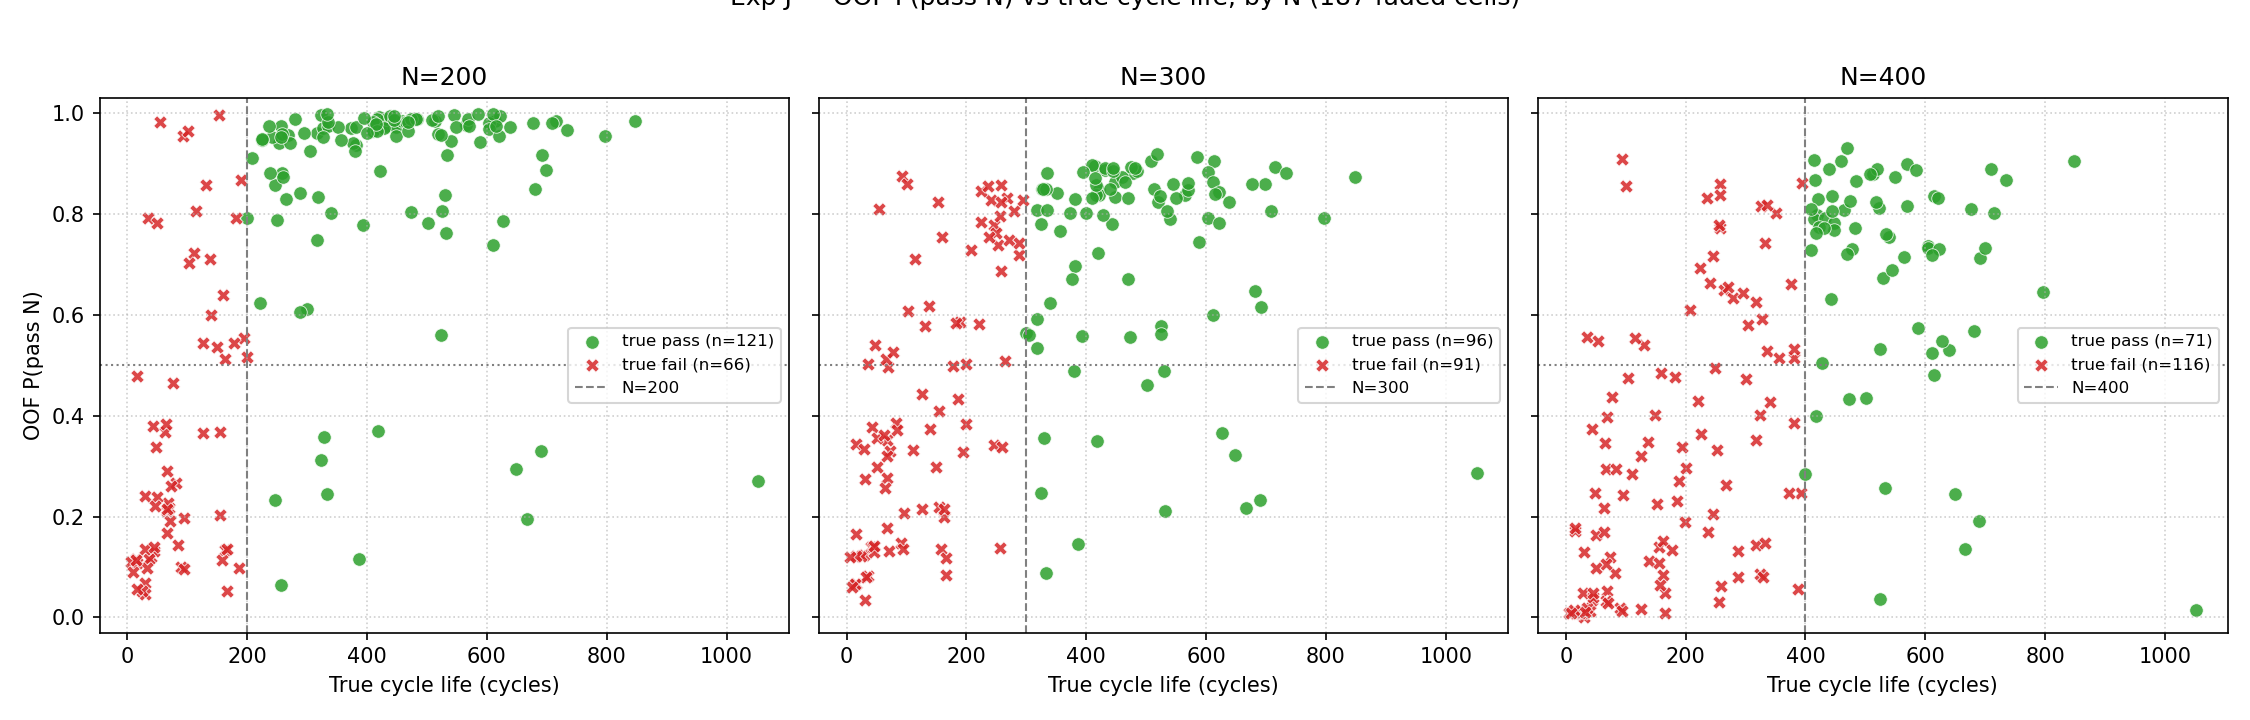
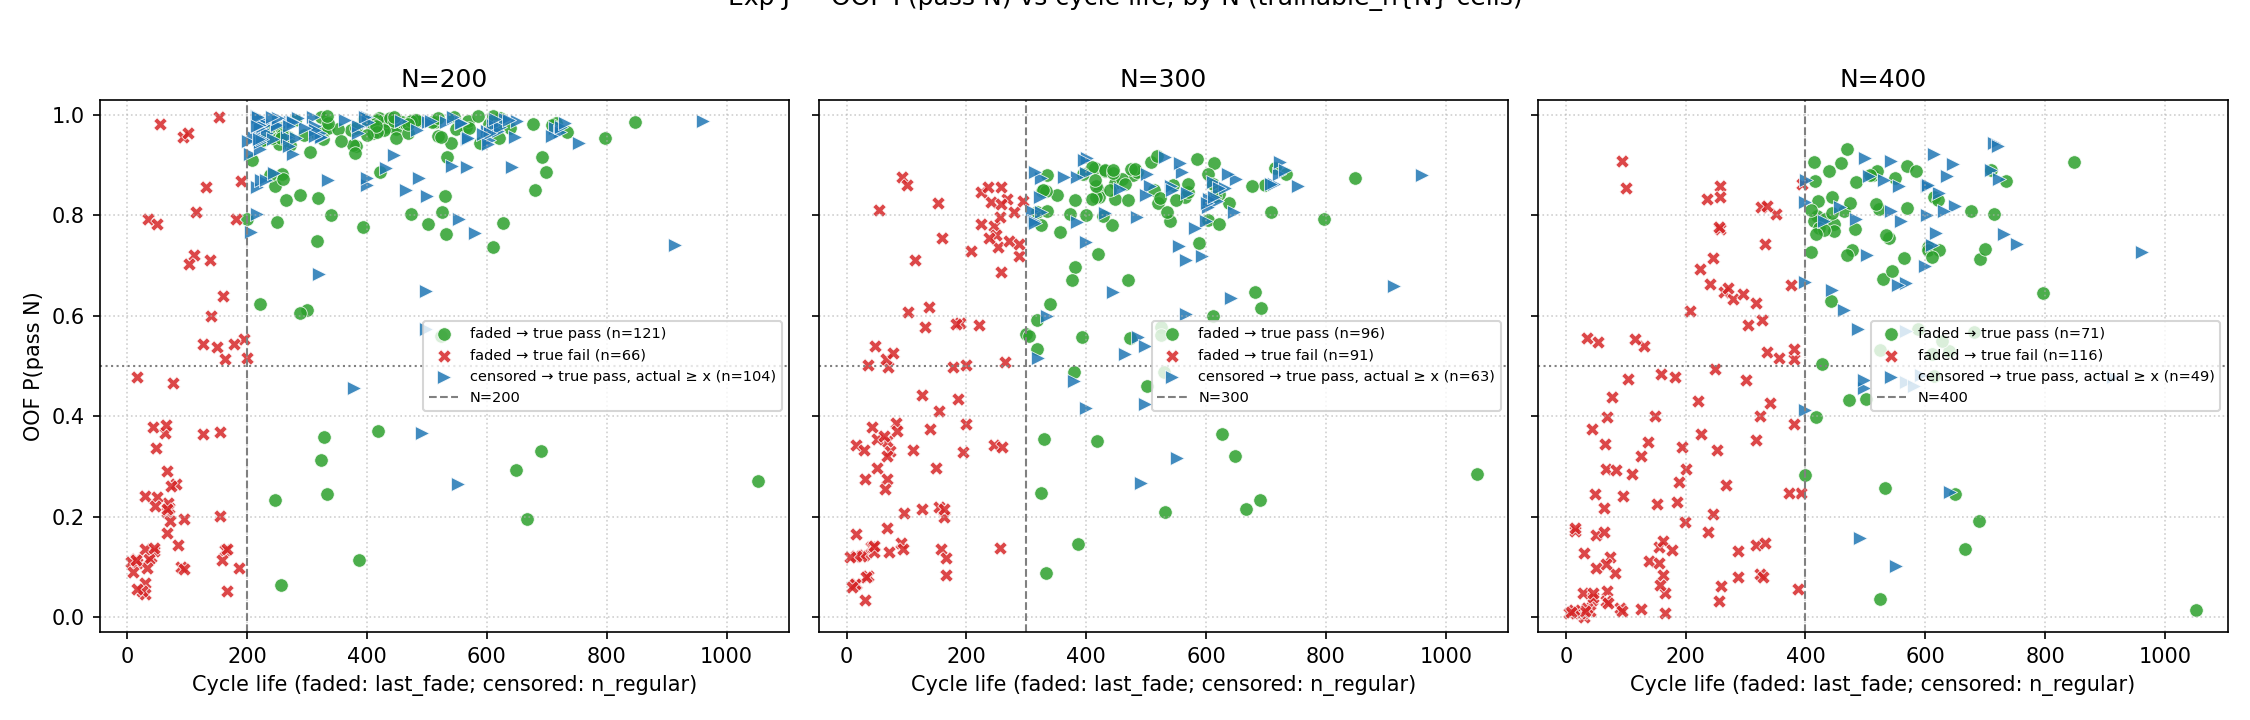
Exp J: re-render classifier plots on trainable_n{N} eval surface
Plots now evaluate ROC/F1/confusion-matrix on cells inside
in_training_set_n{N} (faded + censored-known-pass) — the same surface
the prior multi-seed runs used for their reported F1/AUC. Brings the
numbers directly comparable to the prior 0.91/0.85/0.83 range.

Trainable_n{N} OOF F1 from the rerun:
  N=200: 0.923, AUC 0.920 (eval n=291 = 187 faded + 104 cens.)
  N=300: 0.833, AUC 0.838 (eval n=250 = 187 faded + 63 cens.)
  N=400: 0.789, AUC 0.853 (eval n=236 = 187 faded + 49 cens.)

The prob-vs-cycle scatter now adds censored-in-training cells as
right-pointing blue triangles (signalling actual cycle ≥ n_regular)
alongside the faded-cell pass/fail markers.

diff --git a/cell_lifetime/experiments/exp_j_production_predictions/plot_classification.py b/cell_lifetime/experiments/exp_j_production_predictions/plot_classification.py
@@ -1,22 +1,24 @@
 #!/usr/bin/env python
 """Visualize the 3 ebm_classifier × fs_a_only models at N=200, 300, 400.
 
-Uses the **out-of-fold (OOF) probabilities** from `predictions.csv` —
-these are honest out-of-sample predictions for the 187 faded training
-cells (each cell was held out of one of the 5 inner CV folds when its
-probability was scored). Censored cells aren't in the training set so
-they have NaN OOF and aren't included here.
+Uses the **out-of-fold (OOF) probabilities** from `predictions.csv`.
+The evaluation surface is **the cells inside `trainable_n{N}`** — i.e.
+all cells with a definitive label at N (faded cells with known cycle
+life + censored cells observed past N). This matches the eval surface
+the prior multi-seed cell_lifetime experiments used for their reported
+F1/AUC, so numbers here are directly comparable.
 
 Two figures:
 
   1. `classifier_roc_confusion.png` — 2 rows × 3 cols:
-       row 1: ROC curve per N, with AUC annotated
+       row 1: ROC curve per N, with AUC annotated (eval on trainable_n{N})
        row 2: confusion matrix at threshold 0.5
 
   2. `classifier_prob_vs_cycle.png` — 1 row × 3 cols:
-       predicted P(pass N) vs true cycle life, vertical line at N.
-       Shows the model's decision boundary as a function of the
-       feature we care about most (cycle life).
+       OOF P(pass N) vs cycle life on the x-axis. Faded cells use
+       last_fade_cycle (filled circles); censored-in-training cells
+       use n_regular (right triangles, signalling actual cycle ≥ x).
+       Vertical dashed line at N marks the truth boundary.
 """
 
 from __future__ import annotations
@@ -39,14 +41,17 @@ NS = (200, 300, 400)
 
 
 def plot_roc_and_confusion(df: pd.DataFrame) -> Path:
-    faded = df[df["status"] == "faded"].copy()
-
     fig, axes = plt.subplots(2, 3, figsize=(13, 8.5))
 
     for col, N in enumerate(NS):
-        y_true = faded[f"true_pass_n{N}"].to_numpy().astype(int)
-        y_prob = faded[f"oof_prob_pass_n{N}"].to_numpy()
+        # Eval on the full trainable_n{N} set (faded + censored-known-pass).
+        # This matches the eval surface used by prior multi-seed runs.
+        sub = df[df[f"in_training_set_n{N}"]].copy()
+        y_true = sub[f"true_pass_n{N}"].to_numpy().astype(int)
+        y_prob = sub[f"oof_prob_pass_n{N}"].to_numpy()
         y_pred = (y_prob >= 0.5).astype(int)
+        n_faded = int((sub["status"] == "faded").sum())
+        n_censored = int((sub["status"] == "censored").sum())
 
         # ----- ROC curve -----
         ax = axes[0, col]
@@ -63,7 +68,8 @@ def plot_roc_and_confusion(df: pd.DataFrame) -> Path:
         ax.set_ylabel("True Positive Rate")
         ax.set_title(
             f"ROC — N={N}\nF1={f1:.3f}, Acc={acc:.3f}, "
-            f"pass={int(y_true.sum())}/{len(y_true)}"
+            f"pass={int(y_true.sum())}/{len(y_true)} "
+            f"({n_faded} faded + {n_censored} cens.)"
         )
         ax.set_xlim(-0.02, 1.02)
         ax.set_ylim(-0.02, 1.02)
@@ -99,7 +105,7 @@ def plot_roc_and_confusion(df: pd.DataFrame) -> Path:
                     ha="center", va="bottom", fontsize=8, color="0.3")
 
     fig.suptitle(
-        "Exp J — ebm_classifier × fs_a_only (3 features), out-of-fold predictions on 187 faded cells",
+        "Exp J — ebm_classifier × fs_a_only (3 features), OOF predictions on trainable_n{N} cells",
         fontsize=12, y=0.995,
     )
     fig.tight_layout(rect=[0, 0, 1, 0.97])
@@ -110,39 +116,53 @@ def plot_roc_and_confusion(df: pd.DataFrame) -> Path:
 
 
 def plot_prob_vs_cycle(df: pd.DataFrame) -> Path:
-    faded = df[df["status"] == "faded"].copy()
-    cyc = faded["last_fade_cycle"].to_numpy()
-
     fig, axes = plt.subplots(1, 3, figsize=(15, 4.8), sharey=True)
     for col, N in enumerate(NS):
         ax = axes[col]
-        prob = faded[f"oof_prob_pass_n{N}"].to_numpy()
-        true_pass = (cyc >= N).astype(int)
+        sub = df[df[f"in_training_set_n{N}"]].copy()
 
-        # Two marker styles by truth
-        for label_val, color, marker, name in (
-            (1, "#2ca02c", "o", "true pass"),
-            (0, "#d62728", "X", "true fail"),
+        faded = sub[sub["status"] == "faded"]
+        censored = sub[sub["status"] == "censored"]
+
+        # Faded cells — actual cycle is last_fade_cycle. Two markers by truth.
+        f_cyc = faded["last_fade_cycle"].to_numpy()
+        f_prob = faded[f"oof_prob_pass_n{N}"].to_numpy()
+        f_true_pass = (f_cyc >= N).astype(int)
+        for label_val, color, name in (
+            (1, "#2ca02c", "faded → true pass"),
+            (0, "#d62728", "faded → true fail"),
         ):
-            sel = (true_pass == label_val)
+            sel = (f_true_pass == label_val)
+            marker = "o" if label_val == 1 else "X"
             ax.scatter(
-                cyc[sel], prob[sel],
+                f_cyc[sel], f_prob[sel],
                 marker=marker, facecolor=color, edgecolor="white",
                 linewidth=0.4, s=42, alpha=0.85,
                 label=f"{name} (n={int(sel.sum())})",
             )
+
+        # Censored-in-training cells — all true pass; actual cycle ≥ n_regular.
+        c_cyc = censored["n_regular"].to_numpy()
+        c_prob = censored[f"oof_prob_pass_n{N}"].to_numpy()
+        ax.scatter(
+            c_cyc, c_prob,
+            marker=">", facecolor="#1f77b4", edgecolor="white",
+            linewidth=0.4, s=46, alpha=0.85,
+            label=f"censored → true pass, actual ≥ x (n={len(c_cyc)})",
+        )
+
         ax.axvline(N, color="gray", linestyle="--", linewidth=1, label=f"N={N}")
         ax.axhline(0.5, color="gray", linestyle=":", linewidth=1)
-        ax.set_xlabel("True cycle life (cycles)")
+        ax.set_xlabel("Cycle life (faded: last_fade; censored: n_regular)")
         if col == 0:
             ax.set_ylabel("OOF P(pass N)")
         ax.set_title(f"N={N}")
         ax.set_ylim(-0.03, 1.03)
         ax.grid(True, linestyle=":", alpha=0.6)
-        ax.legend(loc="center right", fontsize=8)
+        ax.legend(loc="center right", fontsize=7)
 
     fig.suptitle(
-        "Exp J — OOF P(pass N) vs true cycle life, by N (187 faded cells)",
+        "Exp J — OOF P(pass N) vs cycle life, by N (trainable_n{N} cells)",
         fontsize=12, y=1.02,
     )
     fig.tight_layout()
@@ -158,18 +178,21 @@ def main() -> int:
     p2 = plot_prob_vs_cycle(df)
     print(f"Wrote {p1}")
     print(f"Wrote {p2}")
-    # Print a small text summary
-    faded = df[df["status"] == "faded"]
+    # Print a small text summary — eval on trainable_n{N} (matches prior runs)
     for N in NS:
-        y_true = faded[f"true_pass_n{N}"].to_numpy().astype(int)
-        y_prob = faded[f"oof_prob_pass_n{N}"].to_numpy()
+        sub = df[df[f"in_training_set_n{N}"]]
+        y_true = sub[f"true_pass_n{N}"].to_numpy().astype(int)
+        y_prob = sub[f"oof_prob_pass_n{N}"].to_numpy()
         y_pred = (y_prob >= 0.5).astype(int)
         auc = roc_auc_score(y_true, y_prob)
         f1 = f1_score(y_true, y_pred)
         acc = accuracy_score(y_true, y_pred)
         cm = confusion_matrix(y_true, y_pred, labels=[0, 1])
-        print(f"  N={N}: AUC={auc:.3f}, F1={f1:.3f}, Acc={acc:.3f}  "
-              f"  CM[TN,FP,FN,TP]={cm.flatten().tolist()}")
+        n_faded = int((sub["status"] == "faded").sum())
+        n_censored = int((sub["status"] == "censored").sum())
+        print(f"  N={N}: AUC={auc:.3f}, F1={f1:.3f}, Acc={acc:.3f}, "
+              f"n={len(y_true)} ({n_faded} faded + {n_censored} cens.), "
+              f"CM[TN,FP,FN,TP]={cm.flatten().tolist()}")
     return 0
 
 